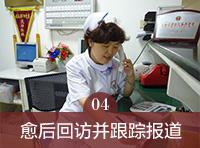
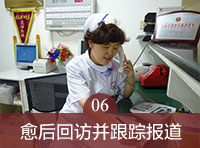
济南中研

diff --git a/demo01/company/0704/css/base.css b/demo01/company/0704/css/base.css
@@ -13,7 +13,7 @@ a{outline:0;cursor:pointer;*star:expression(this.onFocus=this.blur());text-decor
 a{text-decoration:none;}
 a:hover{text-decoration:underline;}
 .left{float:left;}
-.m_top{margin-top:10px;} 
+.m_top{margin-top:10px;}
 .m_mop{margin-top:7px;}
 .fl{float: left;}
 .fr{float: right;}
@@ -26,16 +26,89 @@ img{border:0;}
 .cap b,.tab_l_m .bd li a small{font-size: 18px;}
 .tab_rp{font-size: 12px;}
 
+/**/
+.layout {
+	width: 1000px;
+	margin: 0 auto;
+	padding: 15px 7px;
+}
+.bznav {
+	height: 146px;
+}
+.hdn {
+	overflow: hidden;
+}
+.bzn_l {
+	width: 250px;
+	background: url(../images/bg1.png) no-repeat;
+	background-size: 100% 100%;
+	padding: 7px 0;
+}
+.fl {
+	float: left;
+}
+.bzn_r {
+	width: 715px;
+	background: url(../images/bg2.png) no-repeat;
+	background-size: 100% 100%;
+}
+.fr {
+	float: right;
+}
+.bzn_l .bzh {
+	color: #fff;
+	background: url(../images/fgx.png) bottom no-repeat;
+	background-size: 60% 25%;
+	padding-top: 7px;
+	padding-bottom: 17px;
+	text-align: center;
+}
+.bzn_l p {
+	color: #e5e5e5;
+	line-height: 17px;
+	padding: 0 4px 9px;
+}
+.bzn_l p span {
+	display: block;
+	margin: 2px auto;
+	padding: 2px;
+}
+.bzn_r .bzh {
+	width: 250px;
+	margin: 7px auto 0;
+	color: #792120;
+	padding: 7px;
+	text-align: center;
+	background: url(../images/fgxh.png) bottom no-repeat;
+	background-size: 100% auto;
+}
+.bzu {
+	padding: 0 17px 22px;
+}
 
-
-
-
-
-
-
-
-
-
+ul {
+	list-style-type: none;
+	overflow: hidden;
+}
+ul, ol, li {
+	list-style: none outside none;
+}
+.bzu li {
+	float: left;
+	border-right: 2px solid #333333;
+	padding: 0 11px;
+	text-align: center;
+	margin: 2px auto;
+}
+li.wb {
+	border-right: none;
+}
+li.gmp {
+	margin-left: 17px;
+}
+li.xcy {
+	margin-left: 117px;
+}
 /*font css end*/
 .logo{ display: block;width: 100%; margin: 0 auto;}
 .nav{height:48px; background:#6f2322;}
@@ -45,158 +118,18 @@ img{border:0;}
 .nav li a,.nav li a:visited{color:#fff;}
 .nav li.active{ background:url(../images/menu-1.jpg) no-repeat left top;}
 .banner img{display: block;margin: 0 auto;width: 100%;}
-.bzn_l{width: 250px; background: url(../images/bg1.png) no-repeat; background-size:100% 100%; padding: 21px 0 40px; }
 .bzn_r{width:715px; background: url(../images/bg2.png) no-repeat; background-size:100% 100%;}
-.bzh{width: 250px;margin: 21px auto 27px; color: #fff;text-align: center;background: url(../images/bg2.png) no-repeat; background-size: 100% auto;}
-.bzn_r .bzh{width: 250px;margin: 30px auto 0; color: #792120; padding:16px 7px; text-align: center;background: url(../images/bg2.png) no-repeat; background-size: 100% auto;}
-
 .bzn_l p{color: #e5e5e5;}
-.bzn_l p span{display: block;margin: 7px auto;}
+.bzn_l p span{display: block;margin: 2px auto;}
 .bzn_l p span a{display: block; color:#fff;text-align: center}
-.bzu{padding:17px 17px 34px;overflow: hidden;}
+.bzu{overflow: hidden;}
 .bzu li{float: left;border-right: 2px solid #333333;padding:0 11px; text-align: center;margin:4px auto;}
 .bzu li a{display: block; color: #333333;}
 li.xcy{margin-left: 117px;}
 li.wb{border-right: none;}
 li.gmp{margin-left:17px;}
 li a.hot{color: #cb4300;}
-.tnav li{float: left;width: 156px; margin:5px;}
-.tnav li a{display: block; background: #cb4300;text-align: center;}
-.tnav li a span{display: inline-block; border-left: 1px solid #a8a8a8;line-height: 35px;margin: 15px 7px 15px 12px; padding: 0 7px;color: #fff; font-weight: bold;}
-.tnav li a img{display: inline-block;vertical-align: middle;}
-.search{position: relative;}
-.search img{display: block;margin:7px auto;}
-.fs{position: absolute;top: 0;right: 0;height:;width:261px;padding: 7px;} 
-.fs input{color: #b2b2b2;background: #fff;padding: 12px;border-radius: 4px;}
-.fs span{border-radius: 4px;background:url(../images/search.png) 54px 14px no-repeat #792120;color: #fff;padding: 10px 27px;outline: none;}
 
-.adi {display: block;margin: 17px auto;}
-.adi img{display:block;}
-.tab_l{width: 692px;}
-.tabu1 li{width: 133px;float: left;}
-.tabu1 li a:hover{background: url(../images/zyk.png) no-repeat #792120;background-size: 100% 100%;}
-.tabu1 li:first-of-type{margin-left: 0;}
-.tabu1 li a{display: block; color: #fff;background: url(../images/zyk.png) no-repeat #808080;background-size: 100% 100%;margin: 4px;padding:9px;}
-.tab_l_m{margin: 9px auto 0; border: 1px solid #c0c0c0;position: relative;}
-.tab_l_ml{width: 302px;height:100%;padding: 0 6px}
-.tab_l_ml img{display: block;width: 100%;margin: 0 auto}
-.tab_l_mr{width: 363px;margin: 0 auto;text-align: center; padding: 21px 6px;}
-.ml_t h2{color: #792120;text-align: center;margin: 7px auto;}
-.ml_t p{color: #333333; margin:3px auto;margin-top: 0;text-align: left;line-height: 29px;}
-.ml_t p span{color: #fe0000;}
-.ml_bu li a{display: block; color: #333333;background: url(../images/lx.png) left center no-repeat;text-align: left;padding-left: 17px;margin:7px auto;}
-.tab_r{width: 290px;margin-top: 5px;position: relative;top: -51px;}
-.tab_rw{border: 1px solid #c0c0c0;padding: 12px 9px 13px;}
-.tab_rh{color: #fff;font-weight: bold;background: url(../images/sxk.png) no-repeat #792120;background-size: 100% 100%; padding: 7px;}
-.tab_ru{width: 100%;}
-.tab_ru li{float: left;width:84px;margin: 3px;text-align: center;}
-.tab_ru li a{display: block; background: url(../images/dh_bg.png) no-repeat;background-size: 100% 100%; padding: 7px;}
-.tab_ri{display: block;margin: 0 auto; width: 100%;}
-.tab_rp{color: #333333; text-align: left;margin: 7px auto;line-height: 25px;margin-left: 14px;}
-.tab_rp span{color: #fe0000;}
-.msu{height: 112px;margin-top: 6px;}
-.msu li{float: left;width: 64px; height: 64px; border-radius: 32px; background:url(../images/xx.png) center no-repeat #792120;margin:7px 13px;}
-.msu li:nth-of-type(2){background:url(../images/jsb.png) center no-repeat #792120;}
-.msu li:nth-of-type(3){background:url(../images/qq.png) center no-repeat #792120;}
-.msu li a{display: block;padding: 67px 3px 1px;}
-.tabtn{display: block;margin:0 auto;width: 235px;height: 33px;}
-.bqzx{background: url(../images/bqzx.jpg) 12px center no-repeat #f2f2f2;margin: 17px auto;}
-.bqzxu{margin-left: 160px;padding: 24px 7px;}
-.bqzxu li{float: left;border: 1px solid #d4b9b9;padding: 2px 10px;margin: 4px}
-
-.cap{position: relative;margin: 17px auto;}
-.cap>img{display: block;margin: 0 auto;}
-.cap span,.cap b,.cap a{display: block;position: absolute;}
-.cap span{color: #cb4300;font-weight: bold;text-align: center;top: 19px; left: 28px;}
-.cap b{color: #333333;text-align: center;font-weight: normal;top: 24px; left: 146px}
-.cap a{color: #fff;right:45px;top: 26px;}
-.tab2 ul li img,.tab2 ul li span{display: inline-block;}
-.tab2 ul li strong,.tab2 ul li small{display: block;}
-.tab2 ul li a{overflow: hidden;}
-.tab2 ul li span{padding: 12px 1px;margin-left: 6px;width: 72px;}
-.tab2 ul li small{font-size: 14px;}
-.tab2 ul li img{margin-left: 10px;}
-.tab2 ul li{width: 173px;}
-.tab2 .tab_rw img{display: block;width: 100%;}
-.tab2 .tab_rh{text-align: left;padding:27px 17px;}
-
-
-.tab2 .tab_l_m{ overflow:hidden; position:relative; border:1px solid #ddd;  }
-		/*.tab2 .tab_l_m .hd{ height:15px; overflow:hidden; position:absolute; right:5px; bottom:5px; z-index:1; }
-		.tab2 .tab_l_m .hd ul{ overflow:hidden; zoom:1; float:left;  }
-		.tab2 .tab_l_m .hd ul li{ float:left; margin-right:2px;  width:15px; height:15px; line-height:14px; text-align:center; background:#fff; cursor:pointer; list-style: circle #ffffff; }
-		.tab2 .tab_l_m .hd ul li.on{ background:#f00; color:#fff; }*/
-		.tab2 .tab_l_m .bd{ position:relative; height:100%; z-index:0;   }
-		.tab2 .tab_l_m .bd li{ zoom:1; vertical-align:middle;width: 100%; }
-		
-		.tab2 .tab_l_m .bd img{margin: 0 auto; display:block;  }
-/*		.tab2 .tab_l_m{height: 524px;position: relative;}*/
-.tab2 li .tab_l{position:relative;width:692px;}
-.tab2 li .tab_l{padding-top:101px; }
-.tab2 li .tab_l img{display: block;margin:0 auto;width: 100%;}
-.tab2 .tab_l_m{border: none;height: 524px;position: relative;top: -102px; }
-.tab2 .tab_l_m li{overflow: hidden;width: 100%;/*position: relative;top: -51px;*/}
-.tab2 .tab_l_m li span strong,.tab2 .tab_l_m li span small{display: inline-block;text-align: center;color: #333333;}
-.tab2 .tab_l_m li span strong{margin-right: 7px;}
-.tab2 .tab_l_m li span{display: block;width: 305px;position: absolute; top:162px; right: 30px;text-align: left;}
-.tab2 .tab_l_m li p,.tab2 .tab_l_m .bd li a{display: block;position:absolute;right: 30px;width: 305px;text-align: left;}
-.tab2 .tab_l_m li .p1{top:234px; }
-.tab2 .tab_l_m li .p2{top:340px; }
-.tab2 .tab_l_m li a:nth-of-type(1){bottom: 40px;width: 150px;height:45px; right:25px;}
-.tab2 .tab_l_m li a:nth-of-type(2){bottom: 40px;width: 150px;height:45px;right: 175px;}
-.tab2 li .tab_r{position: relative;top: 0;}
-.tab2 .tab_rw{padding-bottom: 19px;}
-
-.tab2 .tab_rw img{display: block;margin:0 auto;}
-.tab2,.tab1{height: 492px}
-.tabu2{z-index: 9999;position: relative;}
-.kp{margin: 17px auto;clear: both;}
-.kpu{width: 95px;}
-.kpu li a{display: block;margin: 8px auto; color: #fff;background: url(../images/sxk.png)no-repeat #808080;background-size: 98% 100%; padding: 7px; }
-.kpu li a:hover{background: url(../images/sxk.png)no-repeat #792120;background-size: 98% 100%;}
-.kpm{width: 890px;margin: 8px auto;}
-.kpi{width: 430px;}
-.kpi a{display:block;}
-.kpi a img{display: block;width:100%;}
-.flu{width: 446px;}
-.flu li{background: #f2f2f2;border: 1px solid #d9d9d9;width: 100%;margin: 5px auto;}
-.flu li:nth-of-type(1){margin-top: 0}
-.flu li a{display: block;text-align:left;}
-.flu li span{display: inline-block;background: url(../images/kp_bg.png) no-repeat;padding: 5px 15px;color: #792120;font-weight: bold;text-align: center;padding-left: 10px; margin-right: 7px;}
-.flu li b{display: inline-block;color: #cb4300;margin: 0 7px;float: right;padding: 7px;}
-.infou li{float: left;width: 290px; margin: 5px;}
-.infou li img{display: block;margin:0 auto; width: 100%;}
-.infou li:nth-of-type(1){margin-left: 0;}
-.infou li:nth-of-type(3){margin-right: 0;}
-
-.al{margin: 17px auto;}
-.al li{width: 105px;}
-.al li a{display: block;margin: 7px auto; color: #fff;text-align: center;background: url(../images/sxk.png) no-repeat #808080; background-size: 98% 100%;padding:12px 7px; }
-.al li a:hover{background: url(../images/sxk.png)no-repeat #792120;background-size: 98% 100%;}
-.alm{margin: 7px auto;width: 760px;}
-.almt{display: flex;}
-.mlm{width: 50%;margin: 7px;}
-.mlmi{width: 385px; height: 170px;}
-.mlmi img{display: block;width: 50%;margin: 0 auto; position: relative;}
-.mlm h2{color:#792120;text-align: center;}
-.mlm p{font-size: 12px; color: #333333；}
-
-.mlm p span{color: #fe0000;}
-.vlb{}
-.vlb+img{display: inline-block;width: 70px;margin: 7px;}
-.vu{margin-left: 11px;}
-.vu li{float: left;width: 206px;margin: 4px;}
-.picScroll{  overflow:hidden; position:relative; height:172px;margin-top:10px; }
-.picScroll .bd .prev,.picScroll .bd .next{ display:block;  width:20px; height:78px;cursor:pointer;z-index: 999;}
-.picScroll .bd .next{ background:url(../images/next.png) no-repeat center top; position:absolute; right:0; top:46px; }
-.picScroll .bd .prev{ background:url(../images/pre.png) no-repeat center top;position:absolute; left:0; top:46px;  }
-.picScroll .bd{ padding:0; }
-.picScroll .bd ul{ overflow:hidden; zoom:1; }
-.picScroll .bd ul li{ margin:0 8px; float:left; _display:inline; overflow:hidden; text-align:center;  }
-.picScroll .bd ul li .pic{ text-align:center; }
-.picScroll .bd ul li .pic img{ width:240px; height:165px; display:block;  padding:2px; border:1px solid #ccc; background:#FFF; }
-.picScroll .bd ul li .pic a:hover img{ border-color:#999;  }
-.gdnr ul li{height: 165px;}
 
 
 

diff --git a/demo01/company/0704/index.html b/demo01/company/0704/index.html
@@ -4,10 +4,10 @@
 	<meta http-equiv="Content-Type" content="text/html;charset=UTF-8">
 	<title>济南中研</title>
 	<link rel="stylesheet" href="css/base.css" />
+	<!--<link rel="stylesheet" href="css/layoout_base.css" />-->
 	<link rel="stylesheet" href="css/section.css">
 	<script src="js/jquery1.42.min.js"></script>
 	<script src="js/jquery.SuperSlide.2.1.1.js"></script>
-	<!-- 	<script src="js/tab2.js"></script>
 -->
 </head>
 <body>
@@ -63,20 +63,21 @@
 			<img src="images/ban2.jpg" alt="" />
 		</a>
 	</div>
+	<!---------------------------------->
 	<div class="layout">
 		<div class="bznav hdn">
 			<div class="bzn_l fl">
 				<h2 class="bzh">疑难皮肤病</h2>
 				<p>
-					<span>
-						<a href="">牛皮癣</a>
-					</span>
-					<span>
-						<a href="">白癜风</a>
-					</span>
-					<span>
-						<a href="">鱼鳞病</a>
-					</span>
+				<span>
+					<a href="">牛皮癣</a>
+				</span>
+				<span>
+					<a href="">白癜风</a>
+				</span>
+				<span>
+					<a href="">鱼鳞病</a>
+				</span>
 				</p>
 			</div>
 			<div class="bzn_r fr">
@@ -160,25 +161,12 @@
 				</ul>
 			</div>
 		</div>
-
-		</div>
+	</div>
+	<!------------------------------------->
 <!--列表页-->
 	<section>
 		<div class="section_one will_middle">
-			<div id="slideBox" class="slideBox">
-				<div class="hd">
-					<ul><li class="">1</li><li class="">2</li></ul>
-				</div>
-				<div class="bd">
-					<ul>
-						<li style="display: none;"><a href="javascript:;" target="_blank"><img src="images/move_01.jpg"></a></li>
-						<li style="display: none;"><a href="javascript:;" target="_blank"><img src="images/move_02.jpg"></a></li>
-					</ul>
-				</div>
-			</div>
-			<script>
-				jQuery(".slideBox").slide({mainCell:".bd ul",autoPlay:true});
-			</script>
+			<img src="images/move_01.jpg"></a>
 		</div>
 		<!--您所在位置-->
 		<div class="section_two">
@@ -282,7 +270,9 @@
 							<div class="doctor_bd">
 								<ul>
 									<li style="display: none;"><a href="javascript:;" target="_blank"><img src="images/sum_doctors_01.jpg"></a></li>
-									<li style="display: none;"><a href="javascript:;" target="_blank"><img src="images/sum_doctors_02.jpg"></a></li>
+									<li style="display: none;"><a href="javascript:;" target="_blank"><img src="images/zuan_02.jpg"></a></li>
+									<li style="display: none;"><a href="javascript:;" target="_blank"><img src="images/zuan_03.jpg"></a></li>
+									<li style="display: none;"><a href="javascript:;" target="_blank"><img src="images/zuan_04.jpg"></a></li>
 								</ul>
 							</div>
 							<!-- 下面是前/后按钮代码，如果不需要删除即可 -->
@@ -490,11 +480,11 @@
 									<img src="images/see_doct_bt.jpg" alt="" class="will_right">
 								</div>
 								<ul>
-									<li><img src="images/see_doct_04.jpg" alt=""></li>
+									<li><img src="images/see_doct_06.jpg" alt=""></li>
 									<li><img src="images/see_doct_lf.jpg" alt=""></li>
 									<li><img src="images/see_doct_05.jpg" alt=""></li>
 									<li><img src="images/see_doct_lf.jpg" alt=""></li>
-									<li><img src="images/see_doct_06.jpg" alt=""></li>
+									<li><img src="images/see_doct_04.jpg" alt=""></li>
 								</ul>
 							</div>
 						</div>

diff --git a/demo01/company/0704/css/section.css b/demo01/company/0704/css/section.css
@@ -110,7 +110,7 @@ h5{
     text-decoration: none;
 }
 .infor_top_list ul li p{
-    color: #9A9A9A;
+    color: #535353;
     font-size: 14px;
 }
 .infor_top_list ul{
@@ -608,7 +608,6 @@ h5{
 }
 .power_left li{
     float: left;
-
 }
 .power_left li a:hover,.power_left li.have_selected a{
     background-color: #6F2424;
